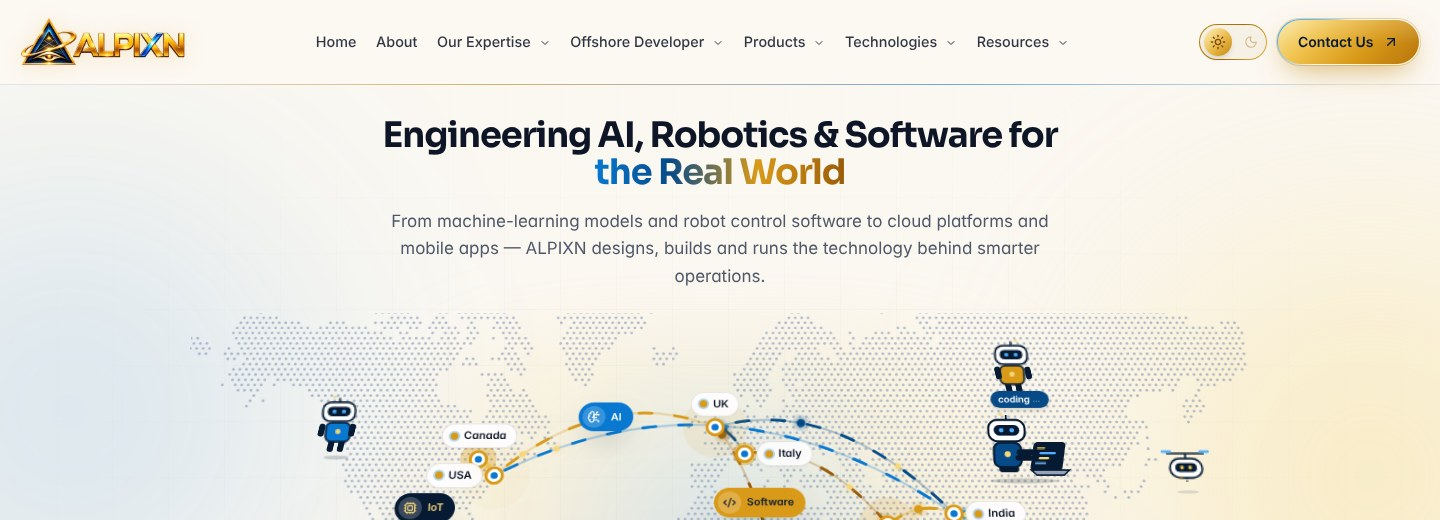
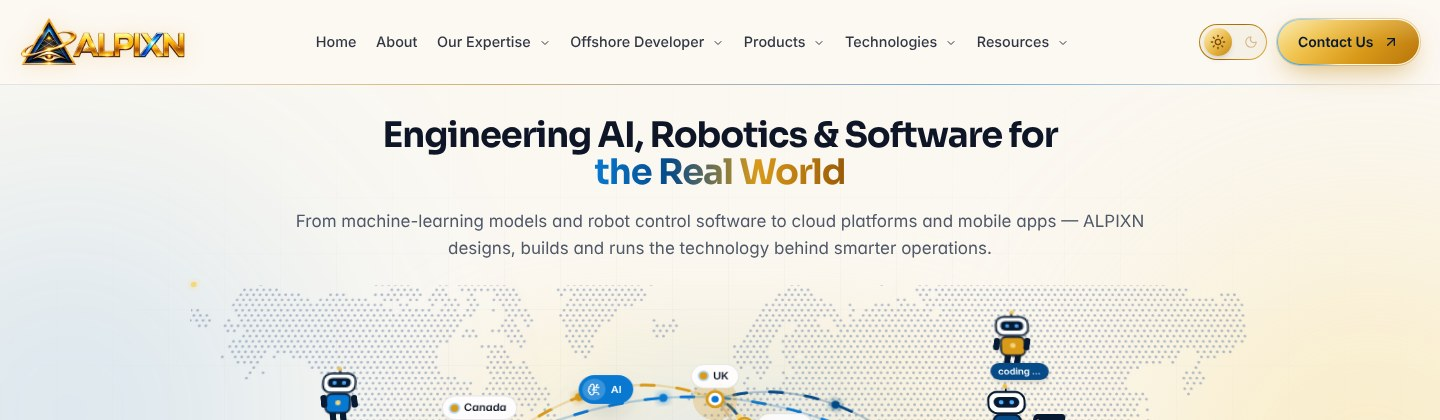
Homepage hero: description on two lines
Claude-Session: https://claude.ai/code/session_01H12J3DzAnzVLA9j2hPFuqi

diff --git a/components/home/HomeV4.tsx b/components/home/HomeV4.tsx
@@ -122,7 +122,7 @@ export function HeroV4({
               </>
             )}
           </h1>
-          <p className="mx-auto mt-4 max-w-2xl text-[17px] leading-relaxed text-fg-muted">{copy}</p>
+          <p className="mx-auto mt-4 max-w-[860px] text-[17px] leading-relaxed text-fg-muted">{copy}</p>
         </div>
 
         {/* Stage: the nine markets on a world map, linked by AI, robotics, cloud and software */}
